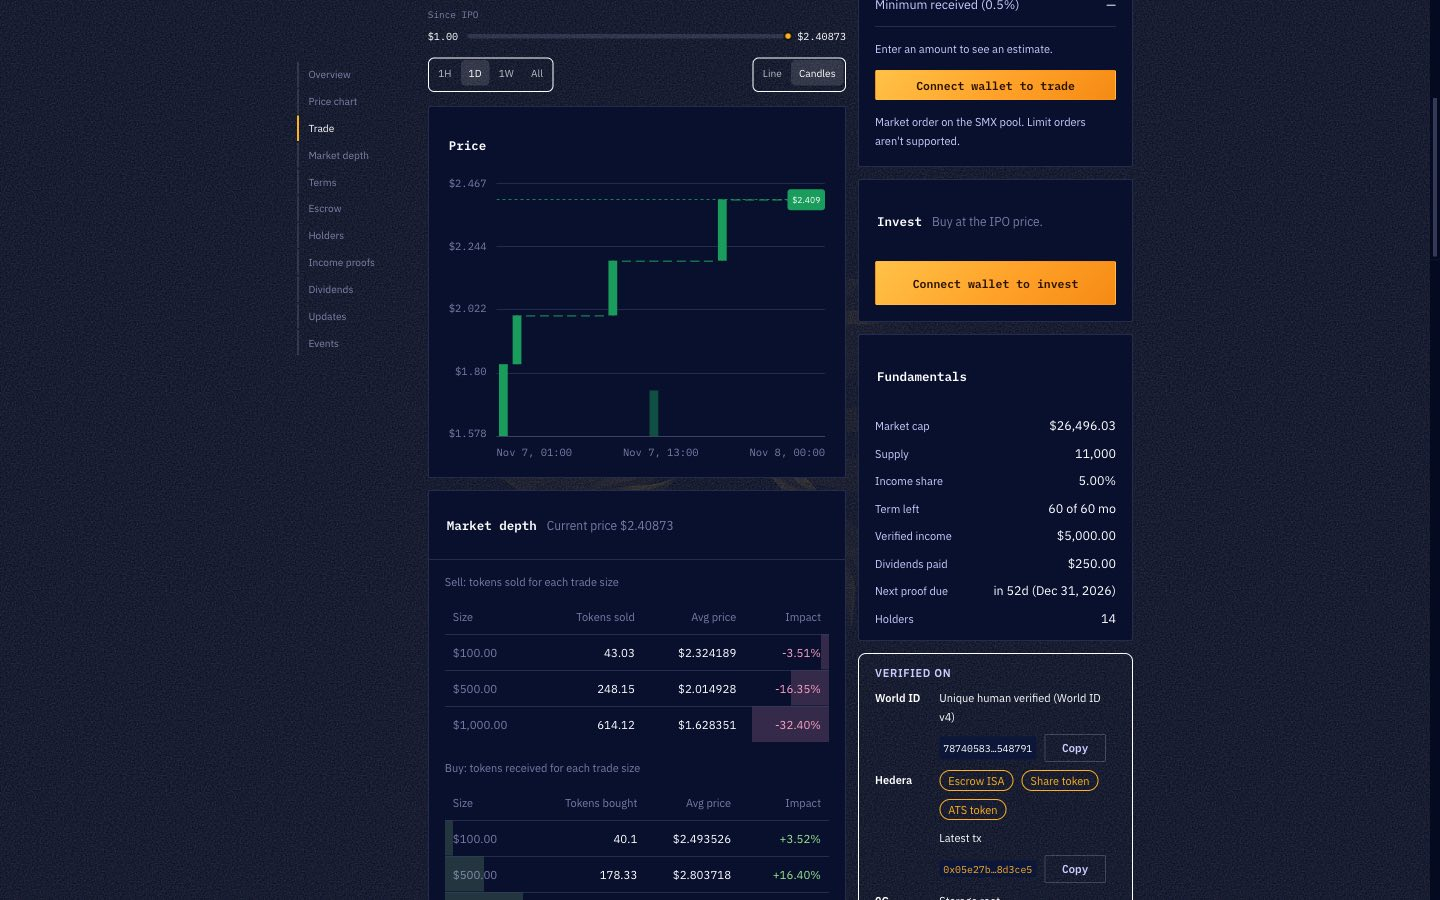
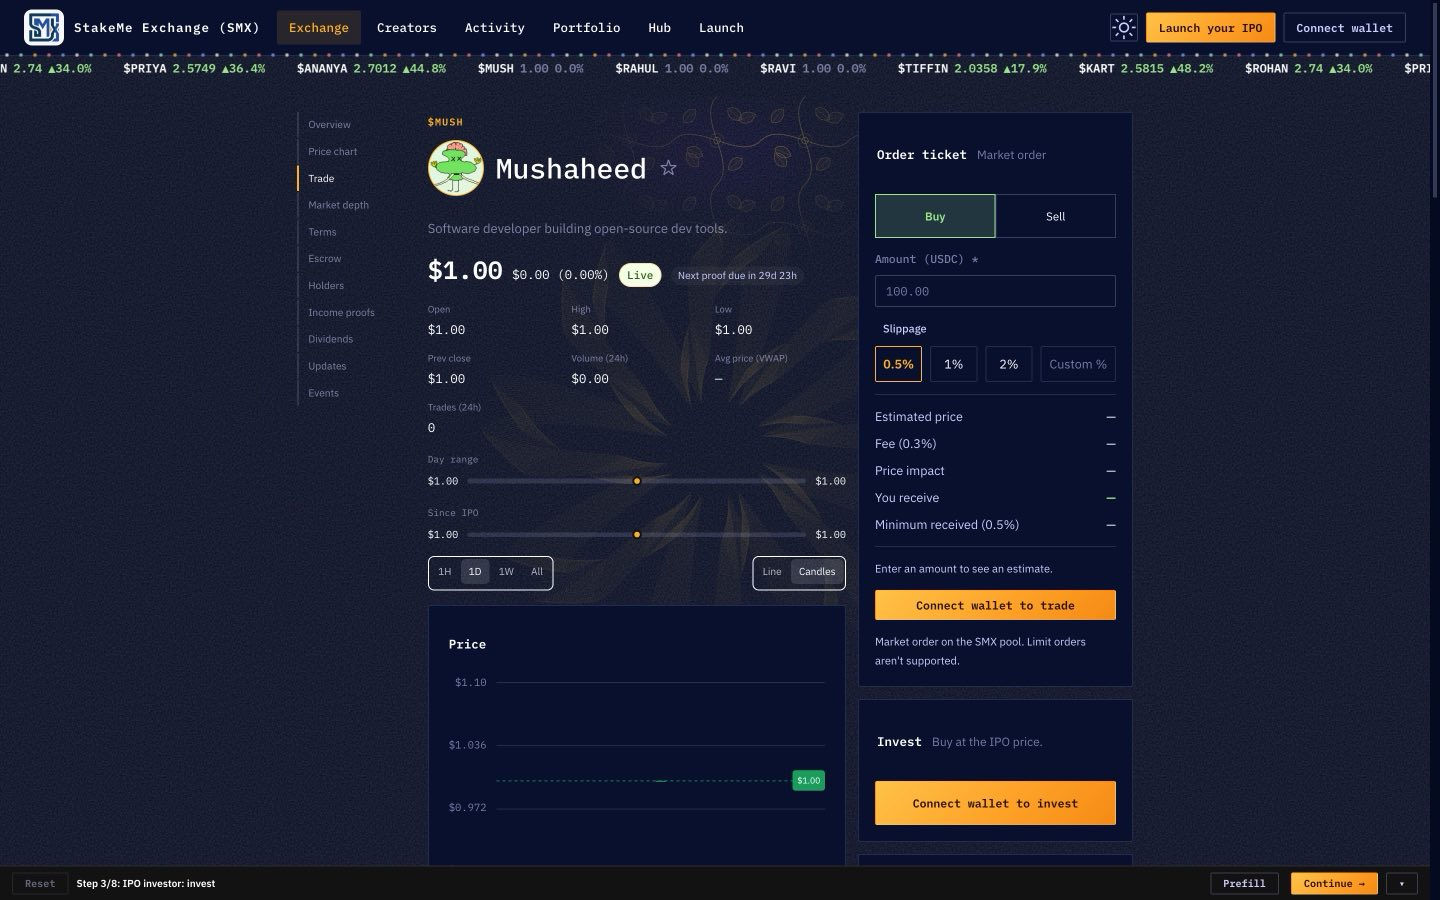
Restore watchlist star on creator page

Changed region(s): [[0.0, 0.0, 1.0, 1.0], [0.1875, 0.1244, 0.25, 0.4044]]

diff --git a/packages/app/src/components/PageHeader.tsx b/packages/app/src/components/PageHeader.tsx
@@ -9,6 +9,7 @@ export function PageHeader({
 	avatar,
 	coinSource,
 	meta,
+	titleAside,
 	lede,
 	actions,
 }: {
@@ -20,6 +21,8 @@ export function PageHeader({
 	coinSource?: boolean
 	/** A kind tag and a line of facts under the title. */
 	meta?: Children
+	/** Rendered beside the title, outside the `<h1>`. */
+	titleAside?: Children
 	lede?: string
 	/** Buttons or links, right-aligned beside the title. */
 	actions?: Children
@@ -34,17 +37,20 @@ export function PageHeader({
 						</span>
 					)
 				}
-				<h1 class={avatar ? 'rc-page-header__title' : undefined}>
-					{
-						!!avatar && (
-							<Avatar
-								seed={avatar}
-								coinSource={coinSource}
-								size='lg' />
-						)
-					}
-					{escapeHtml(title)}
-				</h1>
+				<div class={titleAside ? 'smx-title-row' : undefined}>
+					<h1 class={avatar ? 'rc-page-header__title' : undefined}>
+						{
+							!!avatar && (
+								<Avatar
+									seed={avatar}
+									coinSource={coinSource}
+									size='lg' />
+							)
+						}
+						{escapeHtml(title)}
+					</h1>
+					{!!titleAside && markup(titleAside)}
+				</div>
 				{
 					meta && (
 						<div class='rc-page-header__meta'>

diff --git a/packages/app/public/styles/instrument-watchlist.css b/packages/app/public/styles/instrument-watchlist.css
@@ -11,14 +11,23 @@
 	background: none;
 	border: 0;
 	cursor: pointer;
-	font-size: 1.25rem;
+	font-size: 1.5rem;
+	overflow: visible;
 	padding: var(--rc-space-1);
 	transition: color 0.1s;
 }
 
 .smx-watch::before,
 .smx-watch__star::before {
+	background: none;
+	block-size: auto;
+	border: 0;
 	content: '\2606';
+	display: inline;
+	inline-size: auto;
+	inset: auto;
+	opacity: 1;
+	position: static;
 }
 
 .smx-watch[aria-pressed='true'],
@@ -130,4 +139,11 @@
 		border-inline-start: 0;
 		inline-size: 100vw;
 	}
+}
+
+/* Star beside a page title. */
+.smx-title-row {
+	align-items: center;
+	display: flex;
+	gap: var(--rc-space-2);
 }

diff --git a/packages/app/src/components/pages/CreatorPage.tsx b/packages/app/src/components/pages/CreatorPage.tsx
@@ -113,16 +113,14 @@ export function CreatorPage({ page }: { page: CreatorPageData }) {
 						title={c.displayName}
 						avatar={c.id}
 						coinSource
+						titleAside={
+							<WatchlistButton
+								ticker={c.ticker}
+								watched={false} />
+						}
 						lede={c.headline}
 						meta={
 							<>
-								{
-									signedIn && (
-										<WatchlistButton
-											ticker={c.ticker}
-											watched={false} />
-									)
-								}
 								{
 									single && (
 										<Badge
